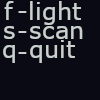
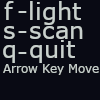
added visible controls
visual feature

Changed region(s): [[0.03, 0.63, 0.39, 0.75], [0.69, 0.63, 0.99, 0.75], [0.42, 0.63, 0.66, 0.75]]

diff --git a/tiles.py b/tiles.py
@@ -38,7 +38,7 @@ class Tile:
         elif kind_of_tile == "mb" : filename = floor.MATCH_BUTTON
         elif kind_of_tile == "sb" : filename = floor.SCAN_BUTTON
         elif kind_of_tile == "qc" : filename = floor.QUIT_CONTROL 
-        elif kind_of_tile == "c" : filename - floor.CONTROLS
+        elif kind_of_tile == "c" : filename = floor.CONTROLS
         else: raise ValueError("Error, unkown tile: ", kind_of_tile)
         # ---------------------
         self.rect = pygame.Rect(self.x * TILESIZE, self.y * TILESIZE, TILESIZE, TILESIZE)
